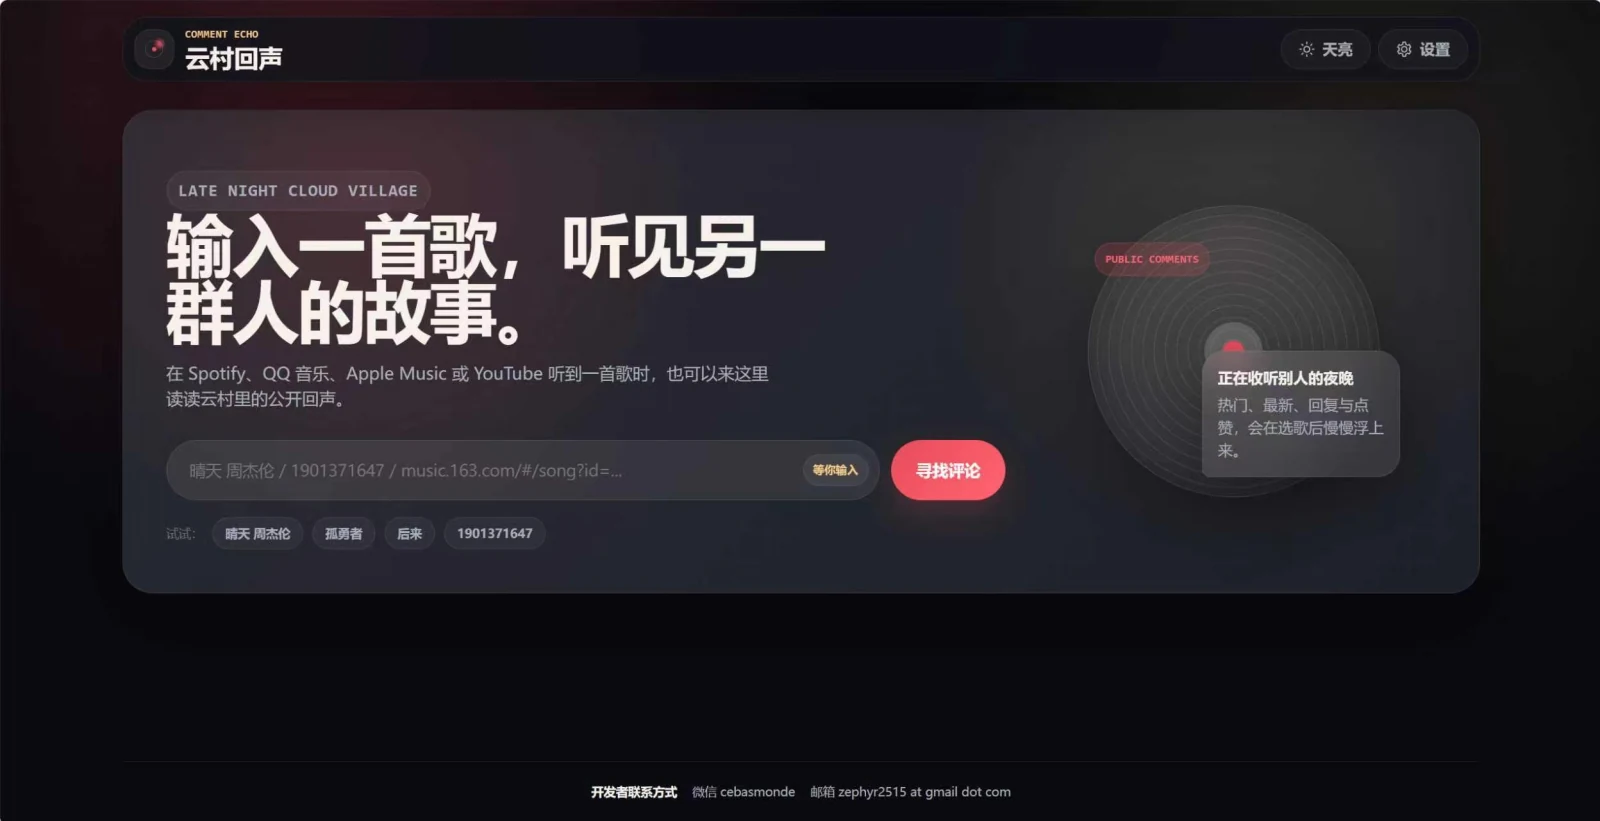
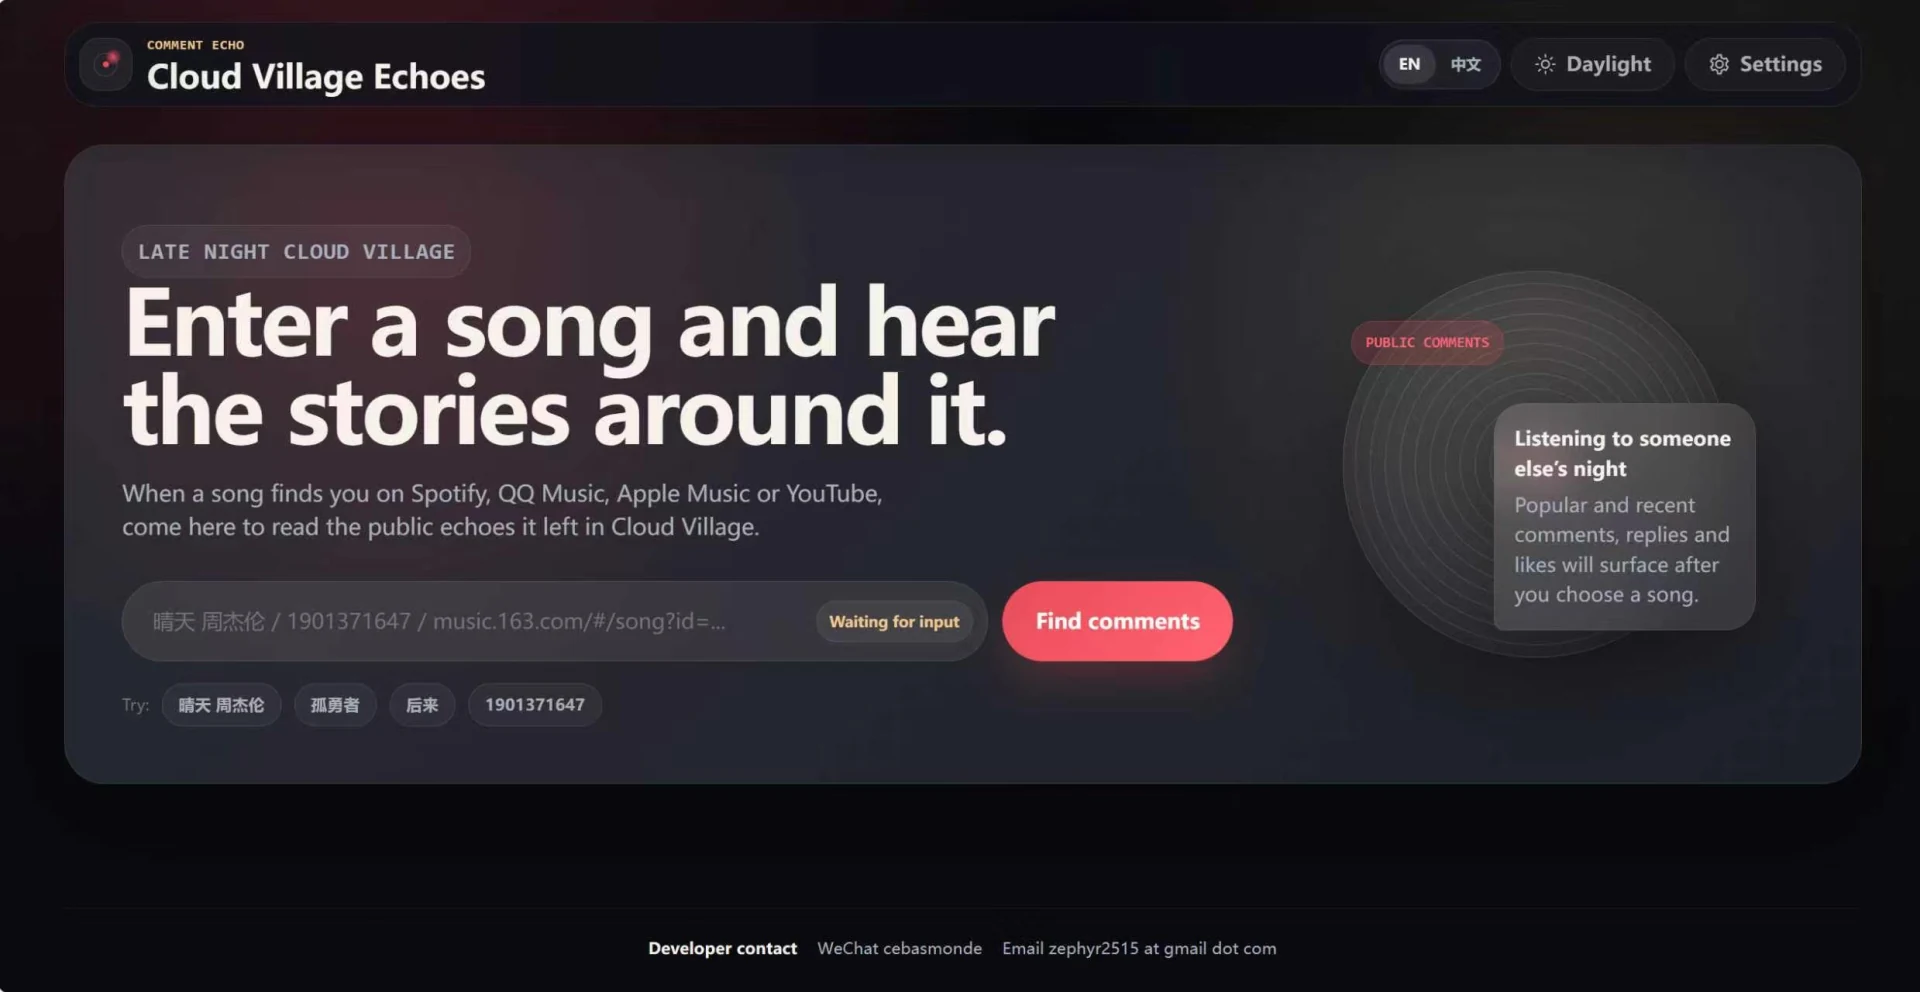
content: refresh Cloud Village and relief map screenshots

diff --git a/src/content/projects/maysak-relief-map.md b/src/content/projects/maysak-relief-map.md
@@ -6,7 +6,7 @@ status: active
 tags: ["Geospatial", "Disaster response", "GeoJSON", "Canvas", "i18n"]
 demo: "http://120.24.108.234/mapcol/"
 github: "https://github.com/ze2phyrzhenyin/villagemap"
-cover: "/images/projects/maysak-relief-map.png"
+cover: "/images/projects/maysak-relief-map.webp"
 i18n:
   en:
     title: "Maysak Relief Map"
